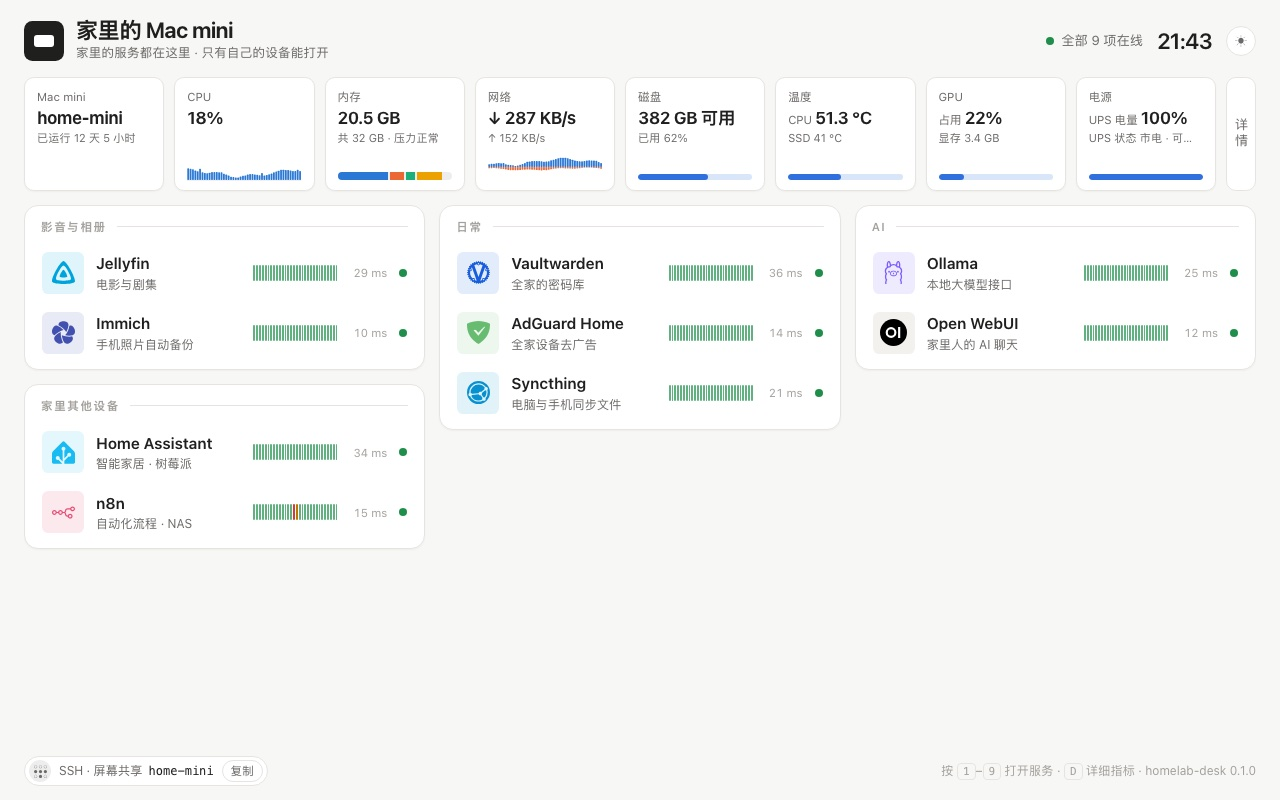
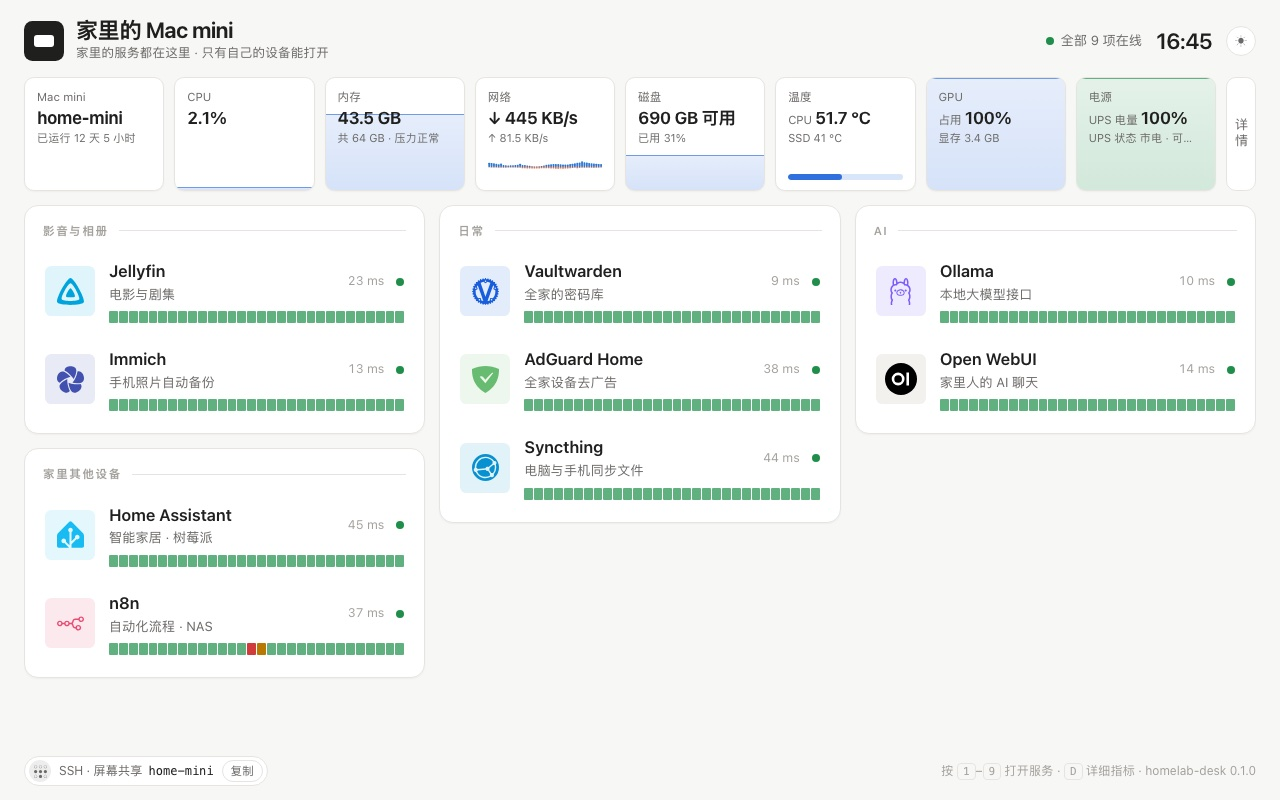
顶部指标改为水位卡片，详情图表保持原样
- CPU、内存、磁盘、GPU 和电量改用背景水位表达占比
- 内存按已用 / 总量计算，告警颜色沿用内存压力与插件状态
- 刷新复用卡片和水位节点，支持平滑过渡与减少动态效果
- 保留详情中的内存分区、曲线和主题图表，更新双语说明与演示截图

验证：四套主题的深浅色、390px 手机、真实数据一屏布局；
零值、满格、告警、缺失数据恢复和水位动画均已在浏览器验收。

diff --git a/web/app.js b/web/app.js
@@ -224,14 +224,39 @@ function render(st) {
   Charts.restoreHover();
 }
 
-// 指标条：一项一个小格，数字 + 迷你图
+// 指标条：CPU / 内存 / 磁盘 / GPU / 电量用整张卡片的水位表达占比。
+// 复用卡片和水位节点，刷新时只换文字，让水位能从上次的高度平滑升降。
+const metricCards = new Map();
 function metric(o) {
-  return h('div', { class: `metric${o.level && o.level !== 'ok' ? ' ' + o.level : ''}` },
+  let card = metricCards.get(o.key);
+  if (!card) {
+    card = h('div', { class: 'metric', 'data-metric': o.key }, h('div', { class: 'metric-content' }));
+    metricCards.set(o.key, card);
+  }
+  const fill = o.fill;
+  const hasFill = Number.isFinite(fill?.value) && Number.isFinite(fill?.max) && fill.max > 0;
+  const level = o.level && o.level !== 'ok' ? ` ${o.level}` : '';
+  card.className = `metric${hasFill ? ' metric-filled' : ''}${o.positive ? ' metric-positive' : ''}${level}`;
+  card.title = o.hint || '';
+  let water = card.querySelector('.metric-fill');
+  if (hasFill) {
+    if (!water) {
+      water = h('div', { class: 'metric-fill', 'aria-hidden': 'true' });
+      card.prepend(water);
+    }
+    card.style.setProperty('--fill-level', `${Math.max(0, Math.min(100, fill.value / fill.max * 100))}%`);
+  } else {
+    water?.remove();
+    card.style.removeProperty('--fill-level');
+  }
+  $('.metric-content', card).replaceChildren(...[
     h('div', { class: 'metric-head' }, h('span', { class: 'metric-label' }, o.label),
       o.level && o.level !== 'ok' ? badge(o.level, LEVEL_TEXT[o.level]) : null),
     h('div', { class: 'metric-value' }, o.value),
     o.sub ? h('div', { class: 'metric-sub' }, o.sub) : null,
-    o.viz ? h('div', { class: 'metric-viz' }, o.viz) : null);
+    o.viz ? h('div', { class: 'metric-viz' }, o.viz) : null,
+  ].filter(c => c != null));
+  return card;
 }
 
 function renderStrip(st) {
@@ -240,44 +265,59 @@ function renderStrip(st) {
   const pts = key => st.history.map(p => ({ t: p.t, v: p[key] }));
   const diskPct = (sys.disk_used / sys.disk_total) * 100;
   const diskLevel = diskPct >= 95 ? 'crit' : diskPct >= 85 ? 'warn' : 'ok';
+  const memPct = (sys.mem_used / sys.mem_total) * 100;
   const miniGauge = (v, max, level) => Charts.gauge(v, max, { kind: kinds.gauge, level, cells: 12, center: '' });
   const metrics = [
-    metric({ label: host.model, value: host.hostname, sub: `已运行 ${duration(sys.uptime)}` }),
+    metric({ key: 'host', label: host.model, value: host.hostname, sub: `已运行 ${duration(sys.uptime)}` }),
     metric({
-      label: 'CPU', level: sys.cpu >= 90 ? 'warn' : 'ok', value: pct(sys.cpu),
-      viz: Charts.trend([{ label: 'CPU', color: 'var(--s1)', points: pts('cpu') }], { key: 'm-cpu', kind: kinds.trend, mini: true, floor: 10, fmt: pct, time }),
+      key: 'cpu', label: 'CPU', level: sys.cpu >= 90 ? 'warn' : 'ok', value: pct(sys.cpu),
+      fill: { value: sys.cpu, max: 100 }, hint: `CPU 占用 ${pct(sys.cpu)}`,
     }),
     metric({
-      label: '内存', level: sys.mem_pressure, value: bytes(sys.mem_used),
+      key: 'memory', label: '内存', level: sys.mem_pressure, value: bytes(sys.mem_used),
       sub: `共 ${bytes(sys.mem_total, 0)} · 压力${PRESSURE_TEXT[sys.mem_pressure]}`,
-      viz: Charts.stack((sys.mem_parts || []).map((p, i) => ({ ...p, color: SERIES[i % 4] })), sys.mem_total, bytes, 'm-mem', false),
+      fill: { value: sys.mem_used, max: sys.mem_total },
+      hint: `已用 ${bytes(sys.mem_used)} / ${bytes(sys.mem_total, 0)}（${memPct.toFixed(1)}%）· 内存压力${PRESSURE_TEXT[sys.mem_pressure]}`,
     }),
     metric({
-      label: '网络', value: h('span', { class: 'net-values' }, `↓ ${rate(sys.net_rx)}`),
+      key: 'network', label: '网络', value: h('span', { class: 'net-values' }, `↓ ${rate(sys.net_rx)}`),
       sub: `↑ ${rate(sys.net_tx)}`,
       viz: Charts.trend([{ label: '下载', color: 'var(--s1)', points: pts('rx') }, { label: '上传', color: 'var(--s2)', points: pts('tx') }],
         { key: 'm-net', kind: kinds.trend, mini: true, mirror: true, floor: 1024, fmt: rate, time }),
     }),
     metric({
-      label: '磁盘', level: diskLevel, value: `${bytes(sys.disk_total - sys.disk_used, 0)} 可用`,
-      sub: `已用 ${diskPct.toFixed(0)}%`, viz: miniGauge(diskPct, 100, diskLevel),
+      key: 'disk', label: '磁盘', level: diskLevel, value: `${bytes(sys.disk_total - sys.disk_used, 0)} 可用`,
+      sub: `已用 ${diskPct.toFixed(0)}%`, fill: { value: sys.disk_used, max: sys.disk_total },
+      hint: `磁盘已用 ${bytes(sys.disk_used)} / ${bytes(sys.disk_total)}（${diskPct.toFixed(1)}%）`,
     }),
     ...st.plugins.map(p => {
-      if (p.error) return metric({ label: p.title, value: '—', sub: p.error, level: 'warn' });
+      const key = `plugin-${p.name}`;
+      if (p.error) return metric({ key, label: p.title, value: '—', sub: p.error, level: 'warn' });
       const [first, ...rest] = p.items;
-      if (!first) return metric({ label: p.title, value: '—' });
+      if (!first) return metric({ key, label: p.title, value: '—' });
       const order = ['ok', 'warn', 'crit'];
       const worst = p.items.reduce((w, it) => (order.indexOf(it.level) > order.indexOf(w) ? it.level : w), 'ok');
       const fmt = it => `${it.value ?? '–'}${it.unit && it.unit !== '%' ? ' ' : ''}${it.unit || ''}`;
+      const water = p.name === 'gpu' || p.name === 'power';
       return metric({
-        label: p.title, level: worst,
+        key, label: p.title, level: worst,
         value: h('span', {}, h('small', {}, `${first.label} `), fmt(first)),
         sub: rest.map(it => `${it.label} ${fmt(it)}`).join(' · '),
-        viz: typeof first.max === 'number' && typeof first.value === 'number' ? miniGauge(first.value, first.max, first.level) : null,
+        fill: water ? { value: first.value, max: first.max } : null,
+        positive: p.name === 'power',
+        hint: `${p.title}：${p.items.map(it => `${it.label} ${fmt(it)}`).join(' · ')}`,
+        viz: !water && typeof first.max === 'number' && typeof first.value === 'number' ? miniGauge(first.value, first.max, first.level) : null,
       });
     }),
   ];
-  $('#metrics').replaceChildren(...metrics);
+  // 顺序没变时保持节点连接，避免每 3 秒重新播放水位的入场动画。
+  const box = $('#metrics');
+  for (const [i, card] of metrics.entries()) {
+    if (box.children[i] !== card) box.insertBefore(card, box.children[i] || null);
+  }
+  for (const card of [...box.children]) {
+    if (!metrics.includes(card)) { metricCards.delete(card.dataset.metric); card.remove(); }
+  }
   if ($('#strip').hidden) { $('#strip').hidden = false; fitServices(); }
 }
 

diff --git a/web/base.css b/web/base.css
@@ -84,9 +84,25 @@ h2::after { content: ""; flex: 1; height: 1px; background: var(--line); }
 .strip { display: flex; align-items: stretch; gap: 10px; flex: none; }
 .metrics { flex: 1; min-width: 0; display: grid; grid-template-columns: repeat(auto-fit, minmax(128px, 1fr)); gap: 10px; }
 .metric {
+  position: relative; isolation: isolate; overflow: hidden;
   min-width: 0; padding: 10px 12px; border-radius: calc(var(--radius) * .7); display: flex; flex-direction: column; gap: 1px;
   background: var(--card); border: 1px solid var(--line); box-shadow: var(--shadow);
   -webkit-backdrop-filter: var(--blur); backdrop-filter: var(--blur);
+}
+.metric-content { flex: 1; min-width: 0; display: flex; flex-direction: column; gap: 1px; }
+/* 卡片本身是容器：底部向上填色。填充只装饰占比，读数始终在上层。 */
+.metric-filled { --water-color: var(--accent); }
+.metric-positive { --water-color: var(--ok); }
+.metric-filled.warn { --water-color: var(--warn); }
+.metric-filled.crit { --water-color: var(--crit); }
+.metric-fill {
+  position: absolute; inset: auto 0 0; z-index: -1; pointer-events: none;
+  height: var(--fill-level); transition: height .65s ease;
+  background: linear-gradient(to top, color-mix(in srgb, var(--water-color) 32%, transparent), color-mix(in srgb, var(--water-color) 22%, transparent));
+  box-shadow: inset 0 1px color-mix(in srgb, var(--water-color) 65%, transparent);
+}
+:root[data-scheme="light"] .metric-fill {
+  background: linear-gradient(to top, color-mix(in srgb, var(--water-color) 20%, transparent), color-mix(in srgb, var(--water-color) 12%, transparent));
 }
 .metric-head { display: flex; align-items: center; gap: 6px; min-height: 18px; }
 .metric-label { font-size: 11.5px; color: var(--muted); white-space: nowrap; overflow: hidden; text-overflow: ellipsis; }
@@ -320,7 +336,7 @@ footer { flex: none; display: flex; align-items: center; gap: 12px; color: var(-
 kbd { font: 11px var(--mono); padding: 1px 5px; border: 1px solid var(--line); border-radius: 4px; }
 
 @media (prefers-reduced-motion: reduce) {
-  .gauge.bar > span, .ring-fill, .core i, .svc { transition: none; }
+  .gauge.bar > span, .ring-fill, .core i, .svc, .metric-fill { transition: none; }
 }
 /* 手机：放不下一屏，改成正常滚动；指标只留 4 个数字，服务紧跟其后 */
 @media (max-width: 700px) {

diff --git a/homelab_desk/metrics/darwin.py b/homelab_desk/metrics/darwin.py
@@ -203,7 +203,7 @@ class Sampler:
             "mem_parts": parts,
             "mem_total": self.static["mem_total"],
             "mem_pressure": _PRESSURE.get(level, "ok"),
-            # 「内存压力」那张图的另一面：系统估计的可用比例
+            # 可分页页与空闲页的比例，包含应用正在使用的页，不能当作空闲内存比例
             "mem_free_pct": _sysctl_int("kern.memorystatus_level", ctypes.c_int32),
             "swap_used": swap.used,
             # APFS 各卷共享容量，按「总量 - 可用」算，和访达里看到的一致

diff --git a/docs/design.md b/docs/design.md
@@ -60,6 +60,7 @@ plugins:
 - 布局：桌面上整页一屏放下（`main` 高度等于视口）。页头、指标条、页脚各一行，服务区占满剩余高度。服务是日常要点开的，指标基本只读，所以指标缩成一条小格，大图表放进「详情」浮层（`D` 键或 `?detail`）。服务的分组面板按瀑布流排列（每个面板放进当前最矮的一列），疏密有四档：l、m、s、xs（xs 一行一个服务，不显示说明和记录条）。由 `fitServices()` 从最大一档开始试，放不下再缩小；四档都放不下时只在服务区内部滚动。手机上改为正常滚动，固定用 s 档。
 - 四套主题（glass / liquid / paper / terminal），每套都有深浅两种：主题文件里分别写 `:root[data-scheme="dark"]` 与 `[data-scheme="light"]` 两组变量。`index.html` 头部的小脚本在样式生效前定好 `data-scheme`（页面上手动选的 > 配置的 `appearance` > 系统设置），避免闪烁。
 - 图表画法由主题的 CSS 变量 `--trend`（area / line / bars / blocks）和 `--gauge`（bar / ring / segments）决定，配置 `charts:` 或地址参数 `?trend=` `?gauge=` 可覆盖。图表代码在 `web/charts.js`，不依赖任何库。
+- 顶部 CPU / 内存 / 磁盘 / GPU / 电量卡片用从底部升起的背景水位表达占比，详情图表仍使用原来的主题画法，内存分区与历史曲线不变。内存水位按 `mem_used / mem_total`，颜色按系统内存压力；`mem_free_pct` 包含可分页的应用内存，不能作为物理内存空闲率。GPU 满载沿用插件状态，电量满格是正常状态；错误或无有效容量时不绘制水位。刷新复用卡片与水位节点，平滑过渡，尊重减少动态效果的系统设置。
 - 分类色固定四个（蓝、橙、青绿、黄），按顺序分配、跟着含义走（内存的 App / 联动 / 压缩 / 缓存，网络的下载 / 上传），已在每套主题深浅两种底色上用色弱模拟校验；状态色（正常 / 警告 / 严重）只表示状态，并且总配文字。
 - desk-agent 保留两段历史：每 2 秒一点的 5 分钟、每 30 秒一点的 1 小时；每个服务保留 1 小时检测结果，页面上画成 30 格的在线记录条。
 - `?demo` 用 `web/demo.js` 的虚构数据渲染，README 截图由此生成。

diff --git a/README.en.md b/README.en.md
@@ -88,7 +88,7 @@ Command output and the dashboard are in Chinese for now.
 Everything lives in one `services.yaml`; see [examples/services.example.yaml](examples/services.example.yaml). Run `deploy` after editing.
 
 - **Themes**: `glass` / `liquid` (Apple-style liquid glass) / `paper` / `terminal`, each in light and dark. `appearance: auto / light / dark` sets the default; a button in the top-right corner switches it on the fly. Append `?theme=liquid` to the URL to preview.
-- **Layout**: on desktop everything fits on one screen. Metrics are a single strip; the big charts live in a detail overlay (press `D`, or append `?detail`). Services are grouped lists that pick one of four densities to fit the screen height.
+- **Layout**: on desktop everything fits on one screen. CPU, memory, disk, GPU and battery cards fill from the bottom to show their percentage. Memory uses used / total RAM; its color follows memory pressure. The detail overlay (press `D`, or append `?detail`) keeps memory composition, trends and theme-specific charts. Services are grouped lists that pick one of four densities to fit the screen height.
 - **Charts**: each theme has its own chart style — area, bars or text blocks for trends; bars, rings or segments for gauges — overridable under `charts:`. The dashboard shows per-core CPU, memory composition, download and upload as two series, and each service's last hour, with a 5-minute / 1-hour range switch.
 - **Plugins**: temperatures, GPU, UPS / battery, check notifications, or write your own. See [docs/plugins.md](docs/plugins.md).
 - **Catalog**: 30 recommended services across media, photos, passwords, ad blocking, automation, smart home, AI, file sync, notes, development, monitoring, downloads and reading, each with who it's for, how to install it, and what to watch out for behind a reverse proxy. See [catalog/services.yaml](catalog/services.yaml).

diff --git a/README.md b/README.md
@@ -86,7 +86,7 @@ bin/homelab-desk deploy      # 生成并启用一切，可重复执行
 全部在一个 `services.yaml` 里，见 [examples/services.example.yaml](examples/services.example.yaml)。改完运行 `deploy`。
 
 - **主题**：`glass`（玻璃）/ `liquid`（苹果液态玻璃）/ `paper`（简洁）/ `terminal`（终端），每套都有深浅两种。`appearance: auto / light / dark` 指定深浅，页面右上角也能随手切换。地址后加 `?theme=liquid` 可以先预览。
-- **布局**：桌面上整页一屏放下。指标缩成一条，大图表收在「详情」浮层里（按 `D`，或地址加 `?detail`）；服务按分组排成列表，按屏幕高度在四档疏密间自动选择。
+- **布局**：桌面上整页一屏放下。顶部 CPU、内存、磁盘、GPU、电量用卡片背景的水位表示占比，内存按已用 / 总量计算，颜色按内存压力判断。大图表收在「详情」浮层里（按 `D`，或地址加 `?detail`），保留内存分区、曲线和主题图表；服务按分组排成列表，按屏幕高度在四档疏密间自动选择。
 - **图表**：每套主题有自己的画法——面积曲线、柱状、字符块；进度条、圆环、分段格。`charts:` 里可以单独换。仪表盘上有 CPU 每个核心、内存构成、下载与上传两条线、每个服务近 1 小时的在线记录，曲线可在 5 分钟 / 1 小时之间切换。
 - **插件**：温度、GPU、UPS / 电池、体检通知，也可以自己写。见 [docs/plugins.md](docs/plugins.md)。
 - **推荐服务**：影音、相册、密码、广告过滤、自动化、智能家居、AI、文件同步、笔记、开发、监控、下载、阅读，共 30 项，每项写明适合谁、怎么装、放到反向代理后要注意什么。见 [catalog/services.yaml](catalog/services.yaml)。
